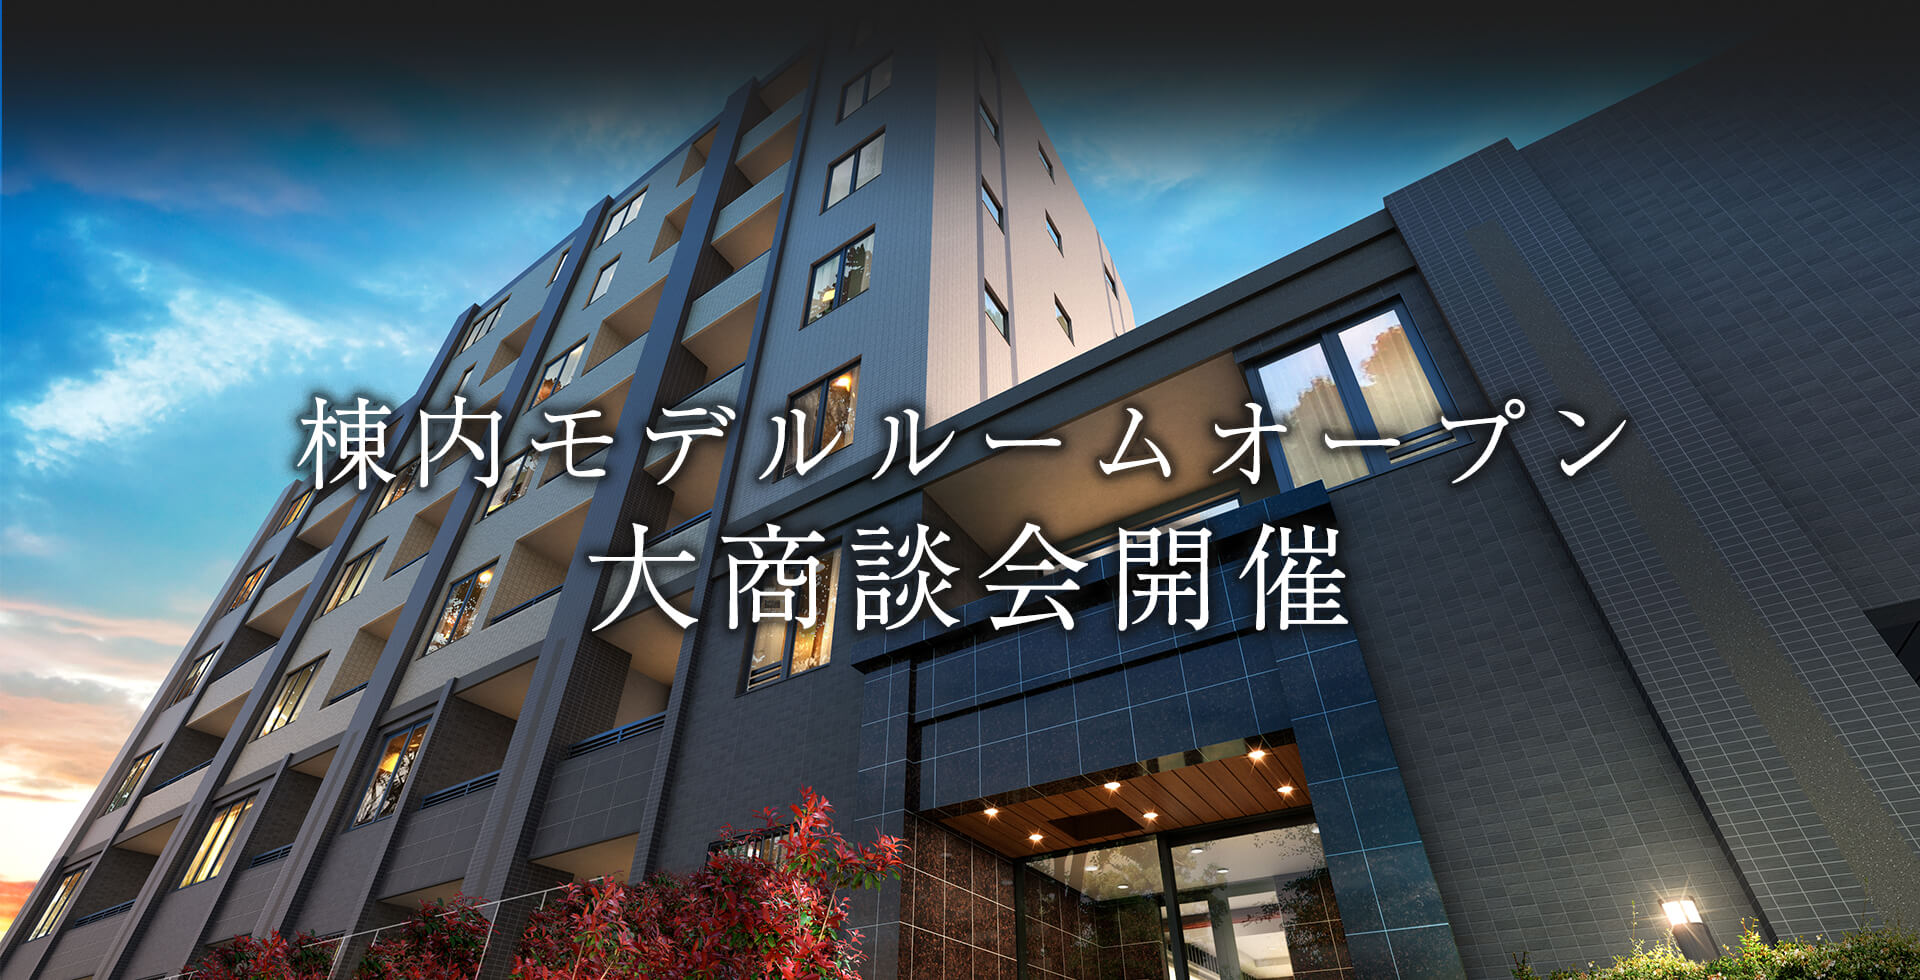
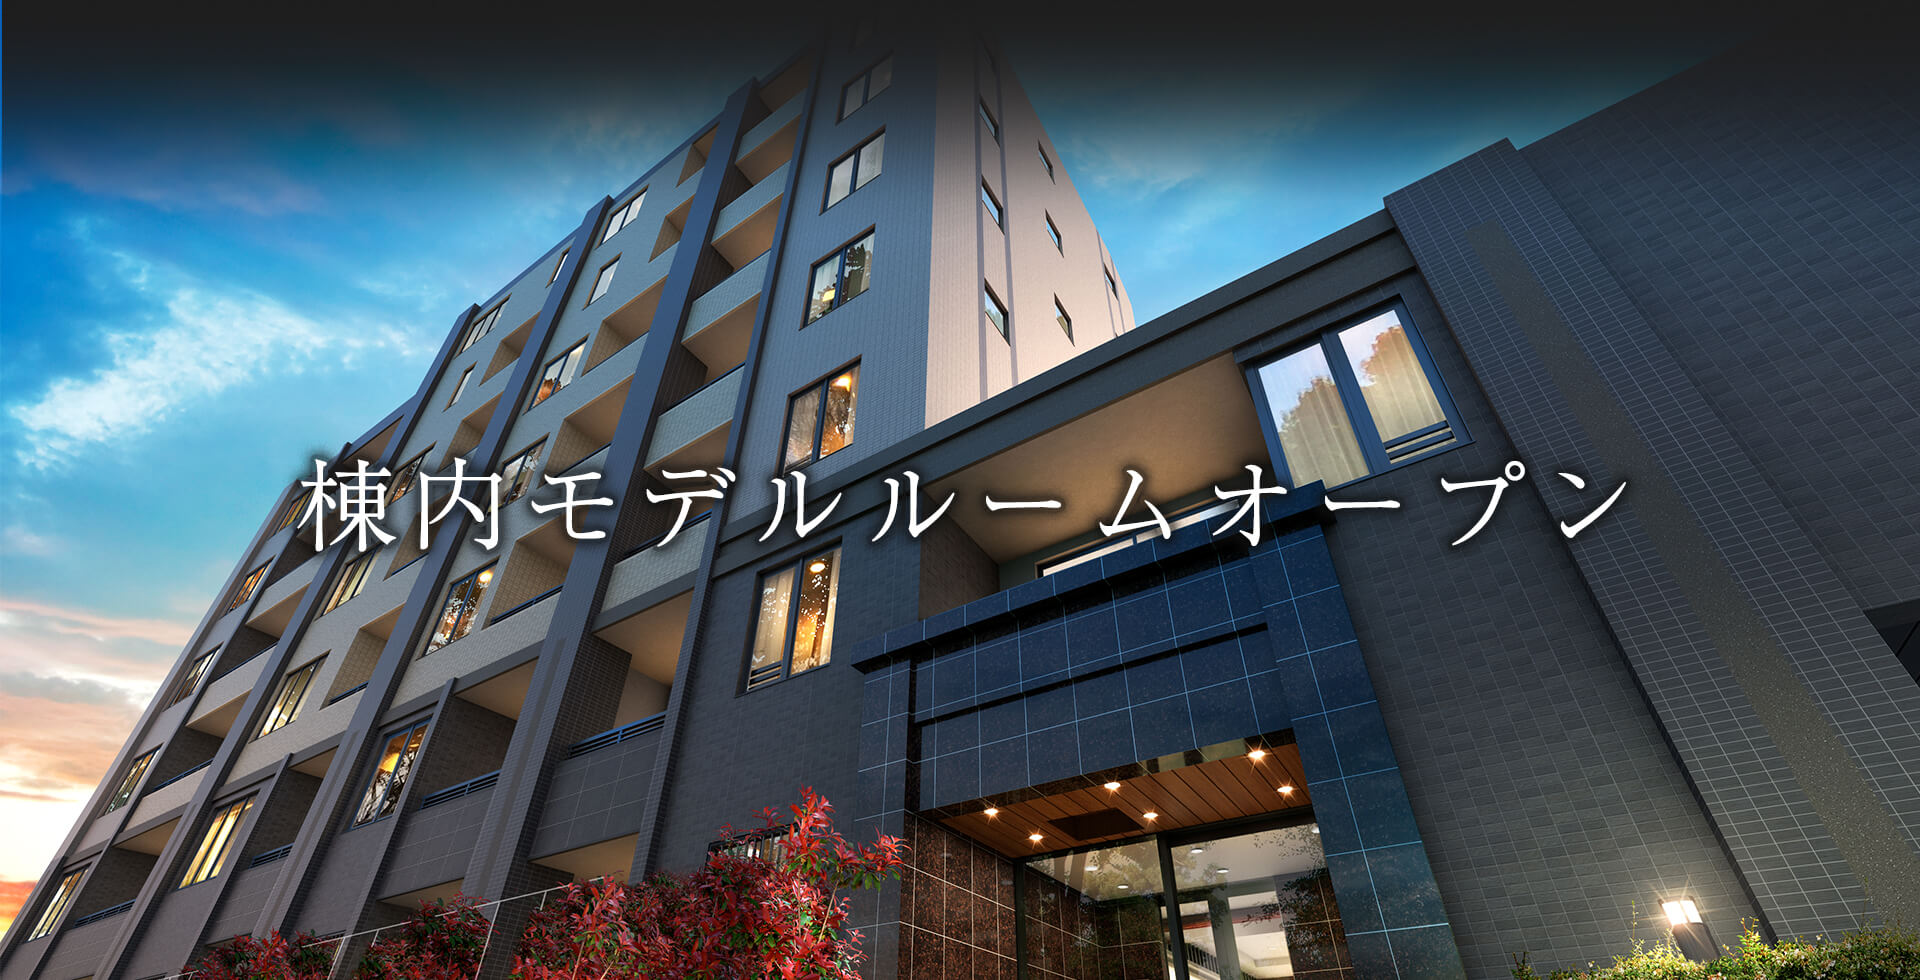
Update nakanotetsugakudo

Changed region(s): [[0.125, 0.398, 0.8438, 0.6735]]

diff --git a/prostyle-residence/www/nakanotetsugakudo/css/mobile.css b/prostyle-residence/www/nakanotetsugakudo/css/mobile.css
@@ -1047,6 +1047,14 @@
 	.section_topbanner, .carousel_topbanner .carousel-cell, .carousel_topbanner .carousel-cell img, .owl_topbanner .item, .owl_topbanner .item img {
 		height: 426px;
 	}
+    .text_top_baner {
+      top: 368px;
+      height: 50px;
+    }
+    .text_top_baner .text-content {
+      line-height: 50px;
+      font-size: 30px;
+    }
 }
 @media (max-width: 414px) {
 	.navbar-brand {
@@ -1069,6 +1077,14 @@
 		object-fit: fill;
 	}
 	.campaign {margin: 10px auto 20px;}
+    .text_top_baner {
+      top: 300px;
+      height: 40px;
+    }
+    .text_top_baner .text-content {
+      line-height: 40px;
+      font-size: 26px;
+    }
 
 }
 @media (max-width: 375px) {
@@ -1116,6 +1132,14 @@
 	ul.list_info li:nth-child(3) p .big_text, ul.list_info li:nth-child(4) p .big_text, ul.list_info li:nth-child(5) p .big_text {
 		font-size: 13.5px;
 	}
+    .text_top_baner {
+      top: 194px;
+      height: 40px;
+    }
+    .text_top_baner .text-content {
+      line-height: 40px;
+      font-size: 26px;
+    }
 
 }
 

diff --git a/prostyle-residence/www/nakanotetsugakudo/css/styles.css b/prostyle-residence/www/nakanotetsugakudo/css/styles.css
@@ -2003,6 +2003,19 @@ iframe {
 .nav-tabs {
     display:none;
 }
+.text_top_baner {
+  position: absolute;
+  top: 710px;
+  height: 80px;
+  width: 100%;
+  background-color: #ffffff;
+  opacity: 0.8;
+}
+.text_top_baner .text-content {
+  font-size: 50px;
+  line-height: 80px;
+  font-weight: 600;
+}
 
 @media(min-width:768px) {
     .nav-tabs {
@@ -2026,6 +2039,14 @@ iframe {
     .tab-content > .tab-pane {
         display: block !important;
         opacity: 1;
+    }
+    .text_top_baner {
+      top: 640px;
+      height: 50px;
+    }
+    .text_top_baner .text-content {
+      line-height: 50px;
+      font-size: 30px;
     }
 }
 

diff --git a/prostyle-residence/www/nakanotetsugakudo/index.php b/prostyle-residence/www/nakanotetsugakudo/index.php
@@ -97,6 +97,9 @@
 				</div>
 				<!-- End baner is slide -->
 			</div>
+			<div class="text_top_baner" align="center">
+				<span class="text-content">大商談会開催</span>
+			</div>
 			<div class="w_topbanner_footer">
 				<div class="container-fluid">
 					<div class="row">
@@ -105,7 +108,7 @@
 							<ul class="topbanner_footer">
 								<li>
 									<p>
-										<span class="meter_label">52m<sup>2</sup>超</span>
+										<span class="meter_label">2LDK 角住戸</span>
 										<span class="price_yen">5,290</span><span class="label_yen">万円〜</span>
 										<span class="monthly">月々</span> <span class="price_stand">13</span>
 										<span class="label_stand">万円台～</span>
@@ -113,8 +116,8 @@
 								</li>
 								<li>
 									<p>
-										<span class="meter_label">60m<sup>2</sup>超</span>
-										<span class="price_yen">5,790</span><span class="label_yen">万円〜</span>
+										<span class="meter_label">3LDK</span>
+										<span class="price_yen">5,490</span><span class="label_yen">万円〜</span>
 										<span class="monthly">月々</span> <span class="price_stand">14</span>
 										<span class="label_stand">万円台～</span>
 									</p>

diff --git a/prostyle-residence/www/nakanotetsugakudo/outline.php b/prostyle-residence/www/nakanotetsugakudo/outline.php
@@ -259,12 +259,12 @@
 					      				<th>ローン概要</th>
 					      				<td>
 											<div class="mb-4">
-												<p>■支払い例 Gタイプ [3LDK（60.32㎡）] 5790万円の場合</p>
-												<p>毎月の支払い額／149,533円</p>
-												<p>ボーナス時加算額／0円</p>
+												<p>■支払い例Bタイプ【3LDK(54.86m²)】5490万円の場合</p>
+												<p>毎月の支払い額／141,786円</p>
+												<p>ボーナス時加算額／0円</p>
 												<p>頭金／0円</p>
-												<p>借入金の月々の元本／5790万円</p>
-												<p>借入金のボーナス払いの元本／0円</p>
+												<p>借入金の月々の元本／5490万円</p>
+												<p>借入金のボーナス払いの元本／0円</p>
 											</div>
 
 											<div class="mb-4">
@@ -293,7 +293,7 @@
 
 
 
-					      		<p class="mb-5 text-center">更新日<span>(3月2日)</span>・更新予定日<span>(3月16日)</span></p>
+					      		<p class="mb-5 text-center">更新日<span>(3月13日)</span>・更新予定日<span>(3月31日)</span></p>
 
 	      					</div>
 	      				</div>
